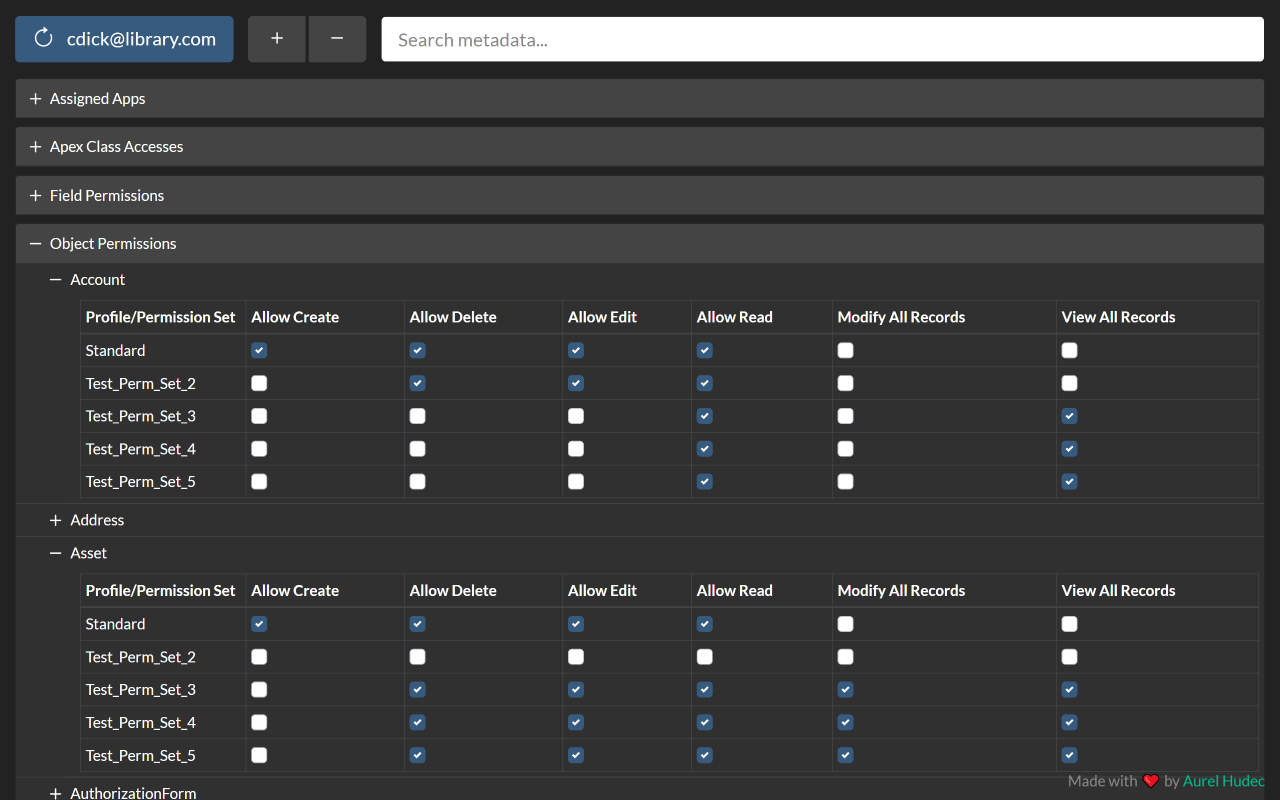
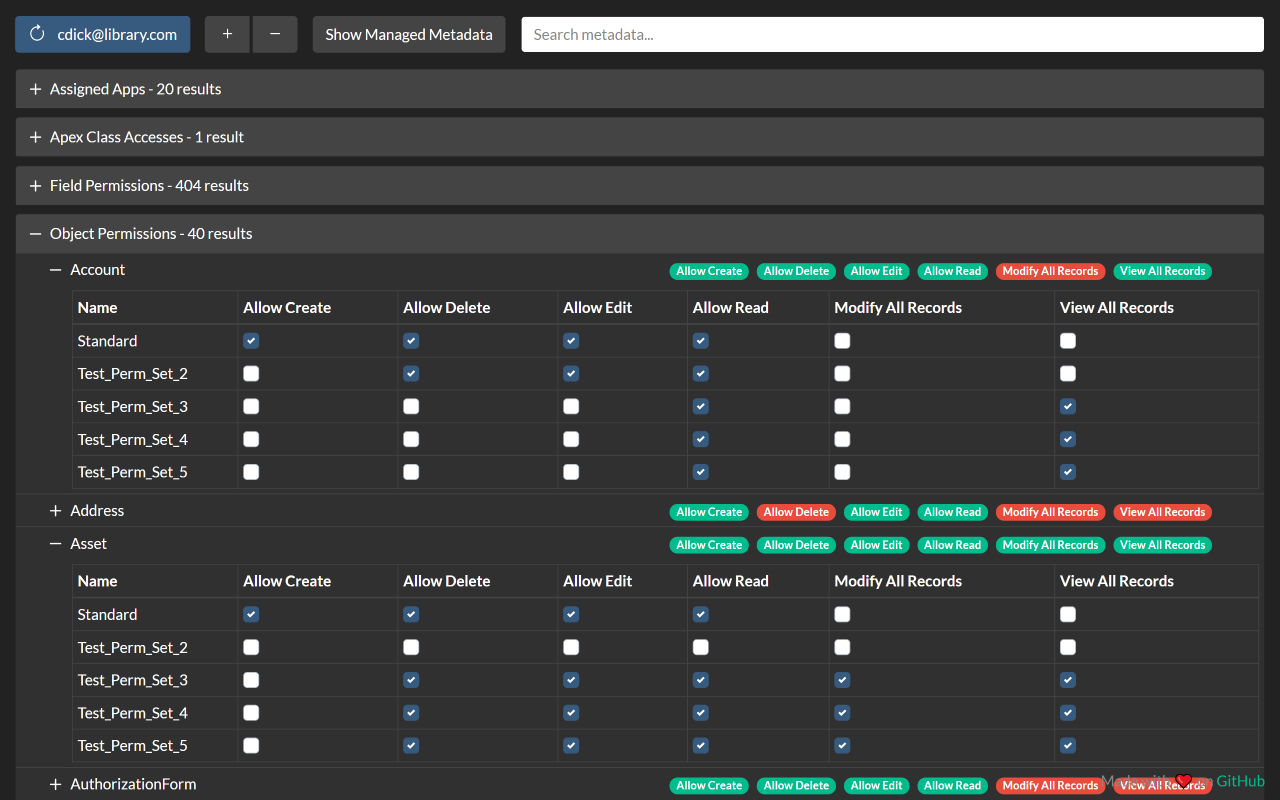
Updated branding and removed metadata type cards with no visible results.

diff --git a/src/front-end/components/MetadataTypeCard.vue b/src/front-end/components/MetadataTypeCard.vue
@@ -1,5 +1,5 @@
 <template>
-    <div class="card mb-2">
+    <div class="card mb-2" v-show="visibleItemCount > 0">
         <div v-bind:class="headerClasses" @click="onCollapseClick">
             <b-icon-plus scale="1.5" v-if="type.collapsed"></b-icon-plus>
             <b-icon-dash scale="1.5" v-else></b-icon-dash>
